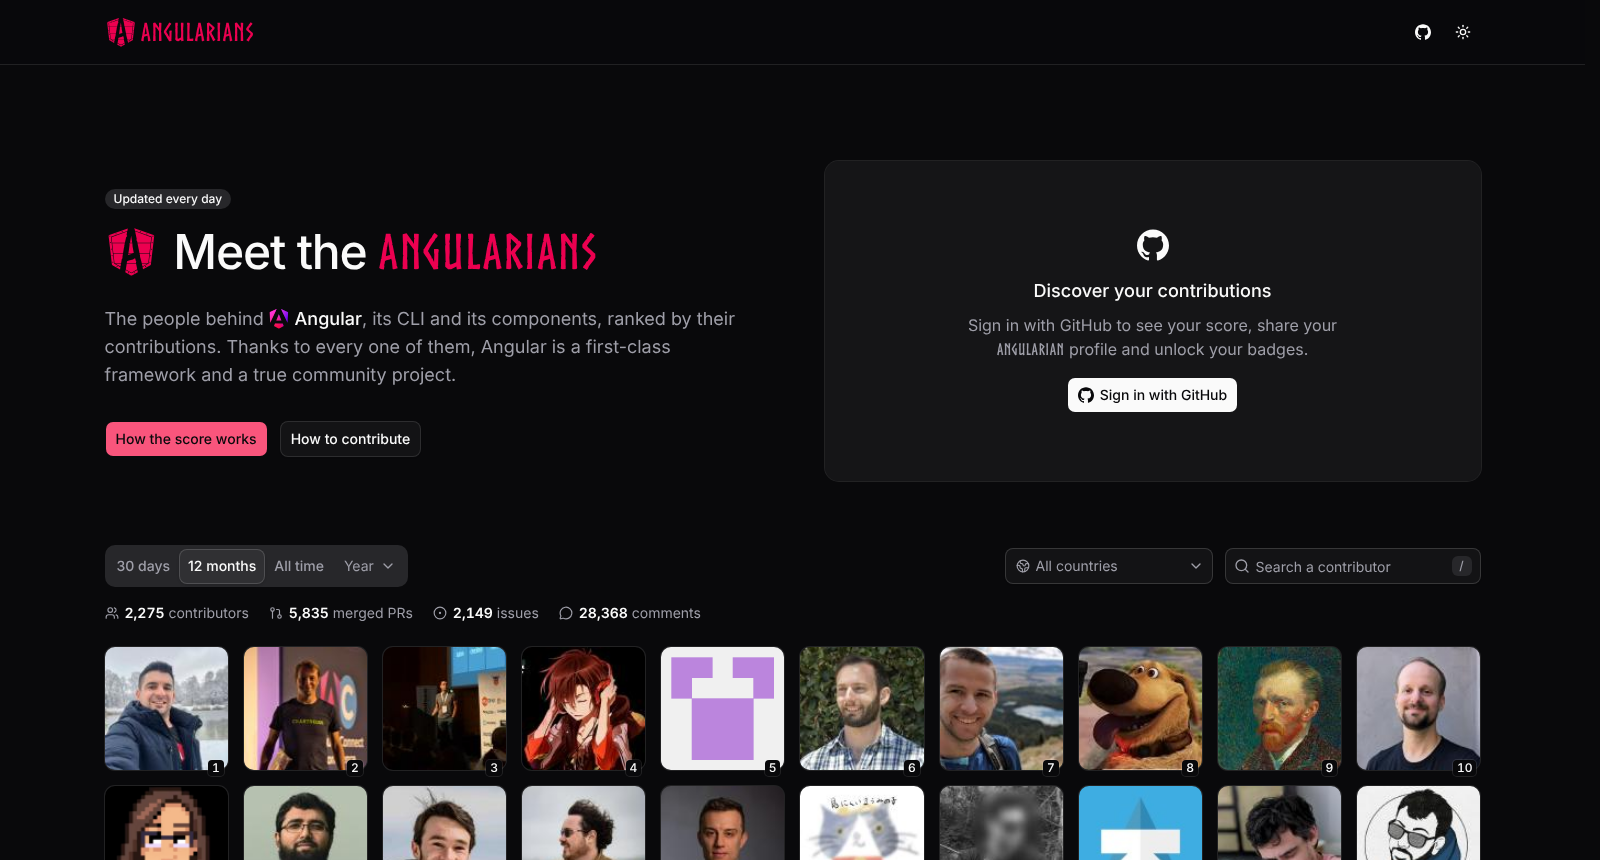
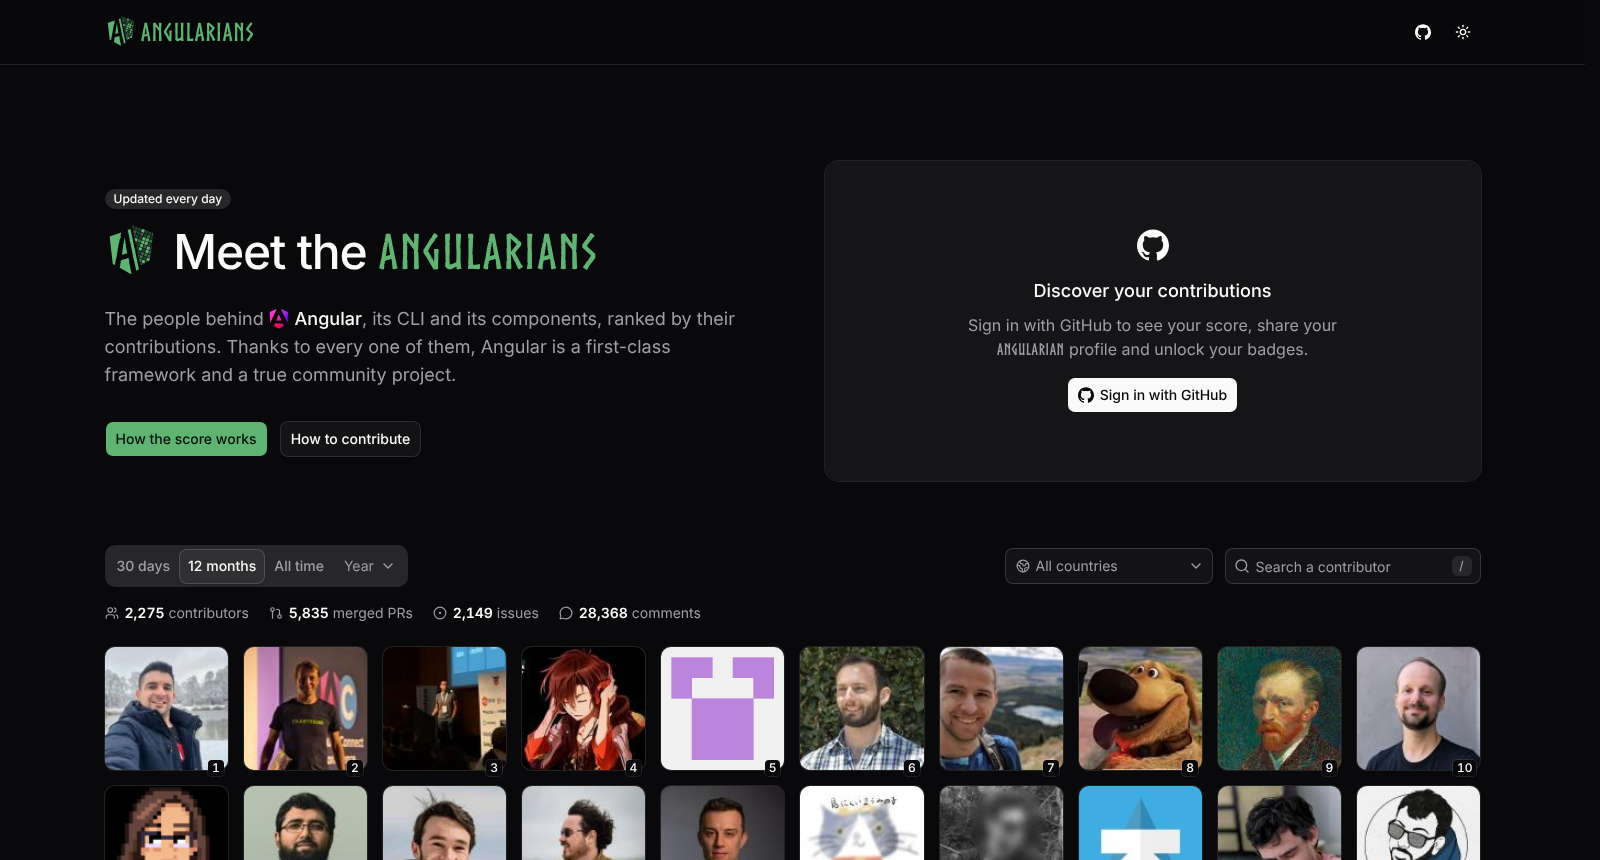
docs: the README with the green screenshot, the share cards, the colour picker, a built-with list and good first issues

diff --git a/README.md b/README.md
@@ -38,7 +38,25 @@ The data is already in `data/`: you do not need a GitHub token to work on the si
 - The last 30 days, the last 12 months, all time and every year, by country, with a globe.
 - A profile for everyone: stats, badges, the packages they contributed to, year by year.
 - Sign in with GitHub to see your rank and badges, share your profile and add your Angularian card to your GitHub README.
+- Link previews for every profile and period, drawn on the server: share a link and it shows your card.
+- Dark and light themes; signed in, a colour picker to try another brand colour on the live site (in your browser only).
 - A public JSON API. How it all fits: [docs/ARCHITECTURE.md](docs/ARCHITECTURE.md).
+
+## Built with
+
+[Angular](https://angular.dev) and [AnalogJS](https://analogjs.org) for the site, server-rendered;
+[spartan/ui](https://spartan.ng) for the components; [Tailwind CSS](https://tailwindcss.com) for the styles;
+[satori](https://github.com/vercel/satori) and [resvg](https://github.com/thx/resvg-js) for the share cards;
+GitHub Actions for the nightly collection, and [Netlify](https://www.netlify.com) to host it all.
+
+<p>
+  <img src="https://img.shields.io/badge/Angular-0F0F11?logo=angular&logoColor=white" alt="Angular">
+  <img src="https://img.shields.io/badge/AnalogJS-0F0F11" alt="AnalogJS">
+  <img src="https://img.shields.io/badge/spartan%2Fui-0F0F11" alt="spartan/ui">
+  <img src="https://img.shields.io/badge/Tailwind_CSS-0F0F11?logo=tailwindcss&logoColor=38BDF8" alt="Tailwind CSS">
+  <img src="https://img.shields.io/badge/TypeScript-0F0F11?logo=typescript&logoColor=3178C6" alt="TypeScript">
+  <img src="https://img.shields.io/badge/Netlify-0F0F11?logo=netlify&logoColor=00C7B7" alt="Netlify">
+</p>
 
 ## The brand
 
@@ -48,7 +66,8 @@ graph on the other, in forest green (`#14632E`, and the brighter `#5EB572` on da
 
 ## Contributing
 
-See [CONTRIBUTING.md](CONTRIBUTING.md) and the [Code of Conduct](CODE_OF_CONDUCT.md). Report security problems through
+See [CONTRIBUTING.md](CONTRIBUTING.md) and the [Code of Conduct](CODE_OF_CONDUCT.md). New here? Start with a
+[good first issue](https://github.com/erkamyaman/angularians/labels/good%20first%20issue). Report security problems through
 [SECURITY.md](SECURITY.md).
 
 ## Maintainers
